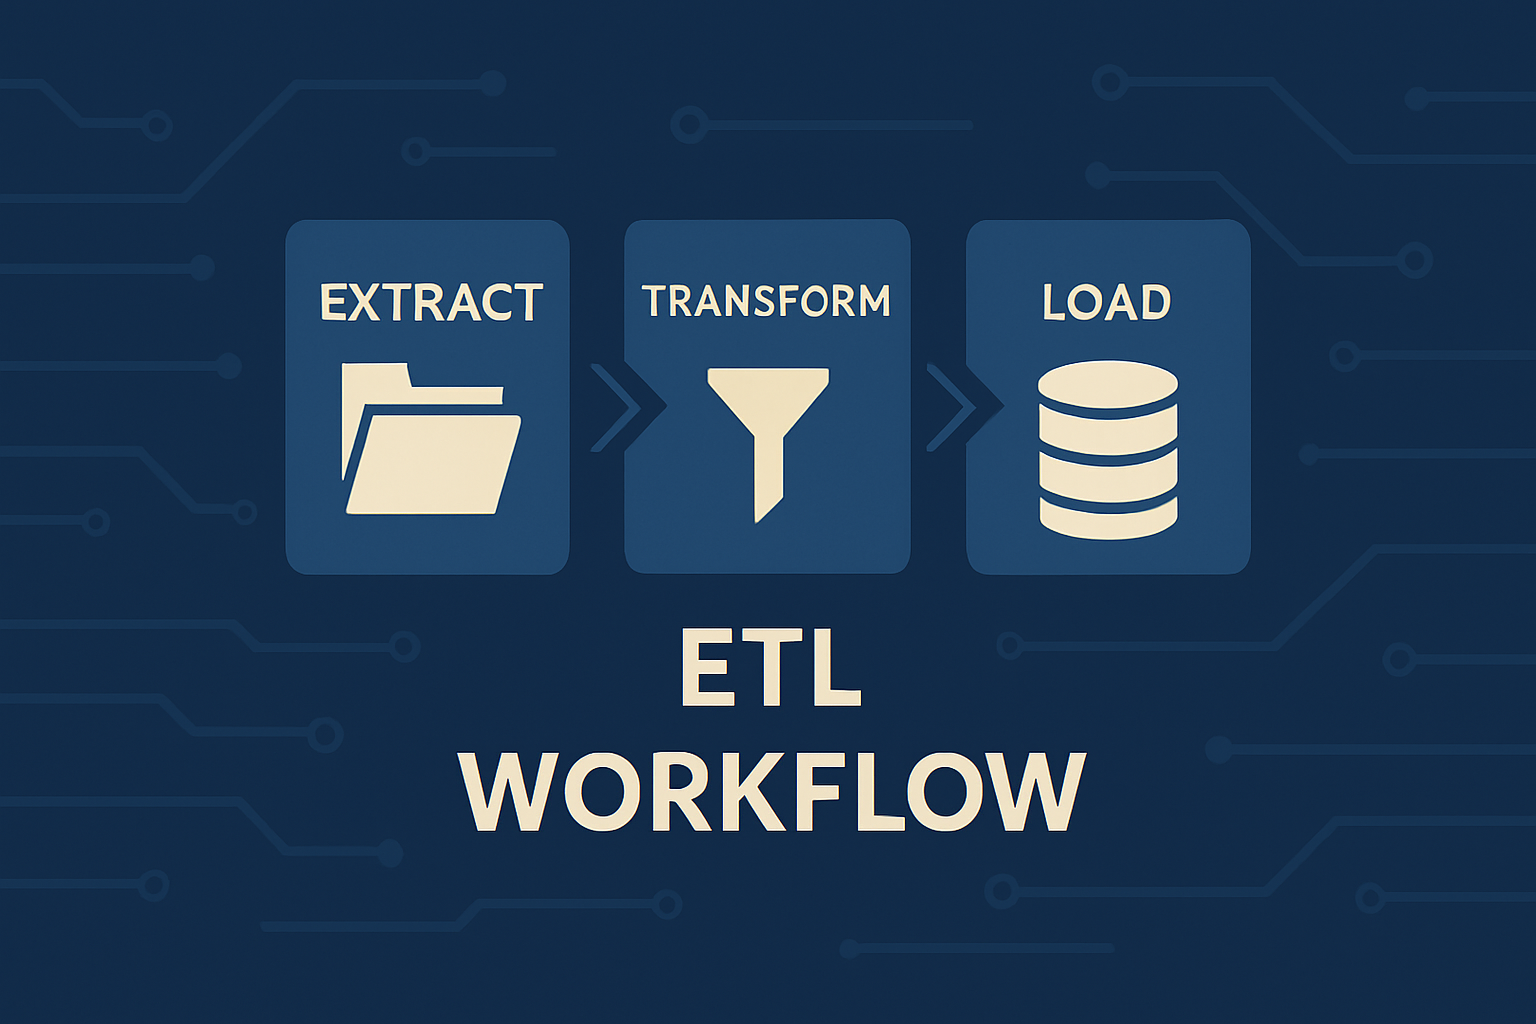
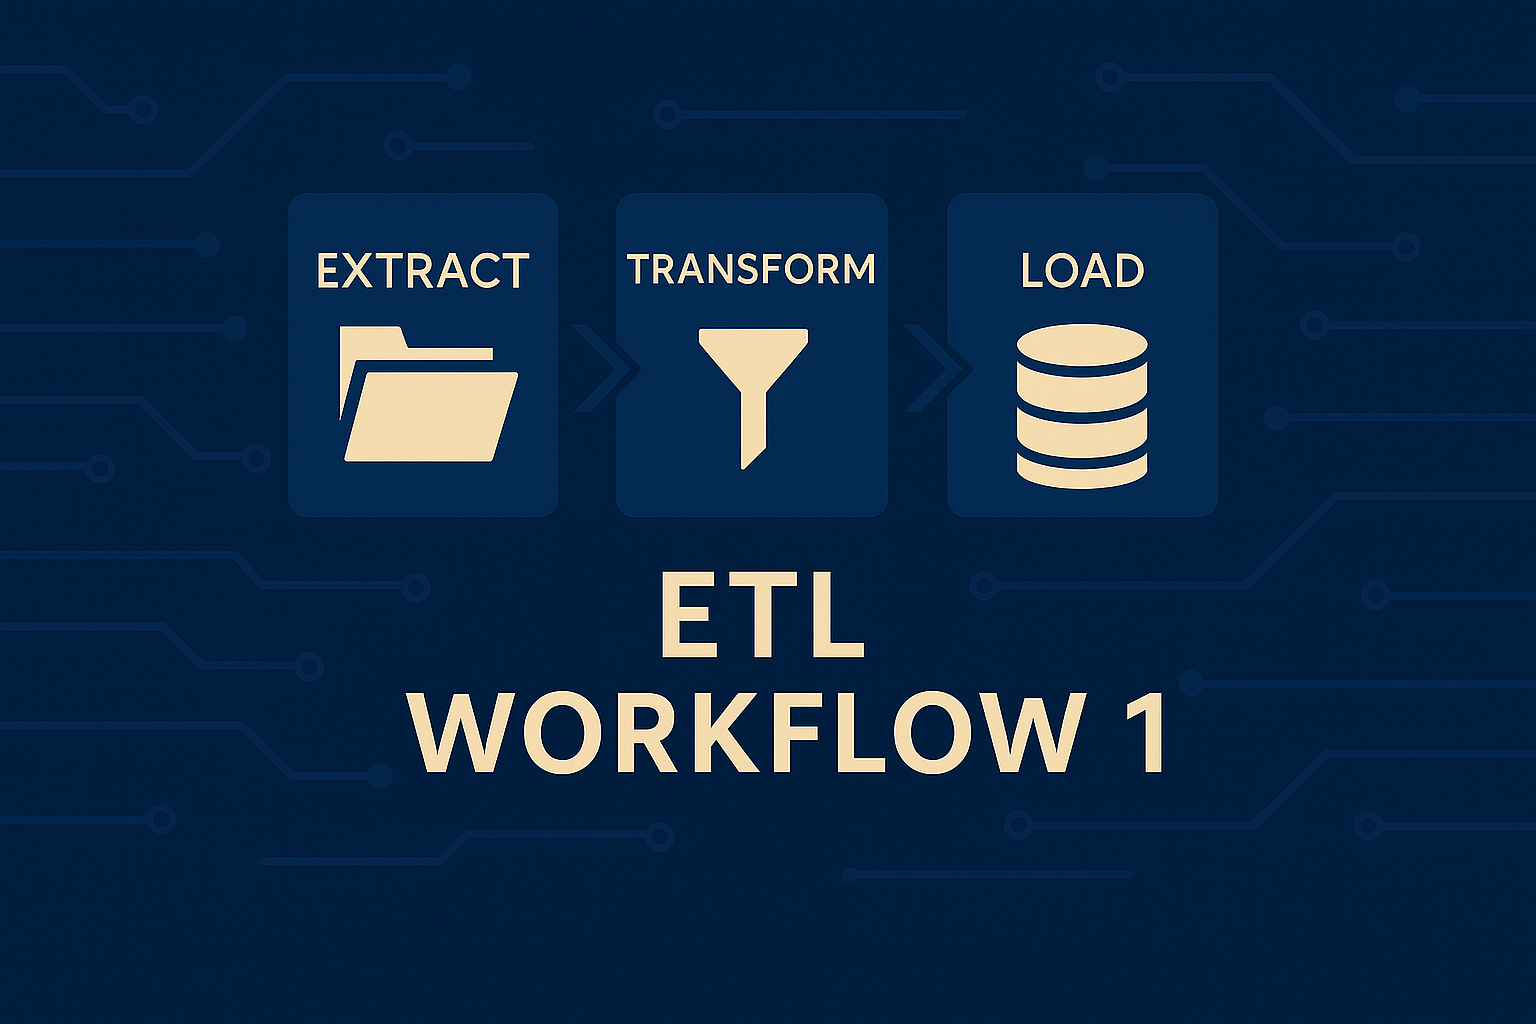
c

Changed region(s): [[0.1875, 0.1875, 0.8125, 0.8125]]

diff --git a/etl_workflow.html b/etl_workflow.html
@@ -146,7 +146,7 @@
 
           <div class="swiper-wrapper align-items-center rounded shadow-sm">
             <div class="swiper-slide">
-              <img src="assets/img/portfolio/etl_workflow_2.jpg" alt="ETL Pipeline Architecture" class="img-fluid rounded">
+              <img src="assets/img/portfolio/etl_workflow_1_flow_diagram.jpg" alt="ETL Pipeline Architecture" class="img-fluid rounded">
             </div>
           </div>
           <div class="swiper-pagination mt-2"></div>
